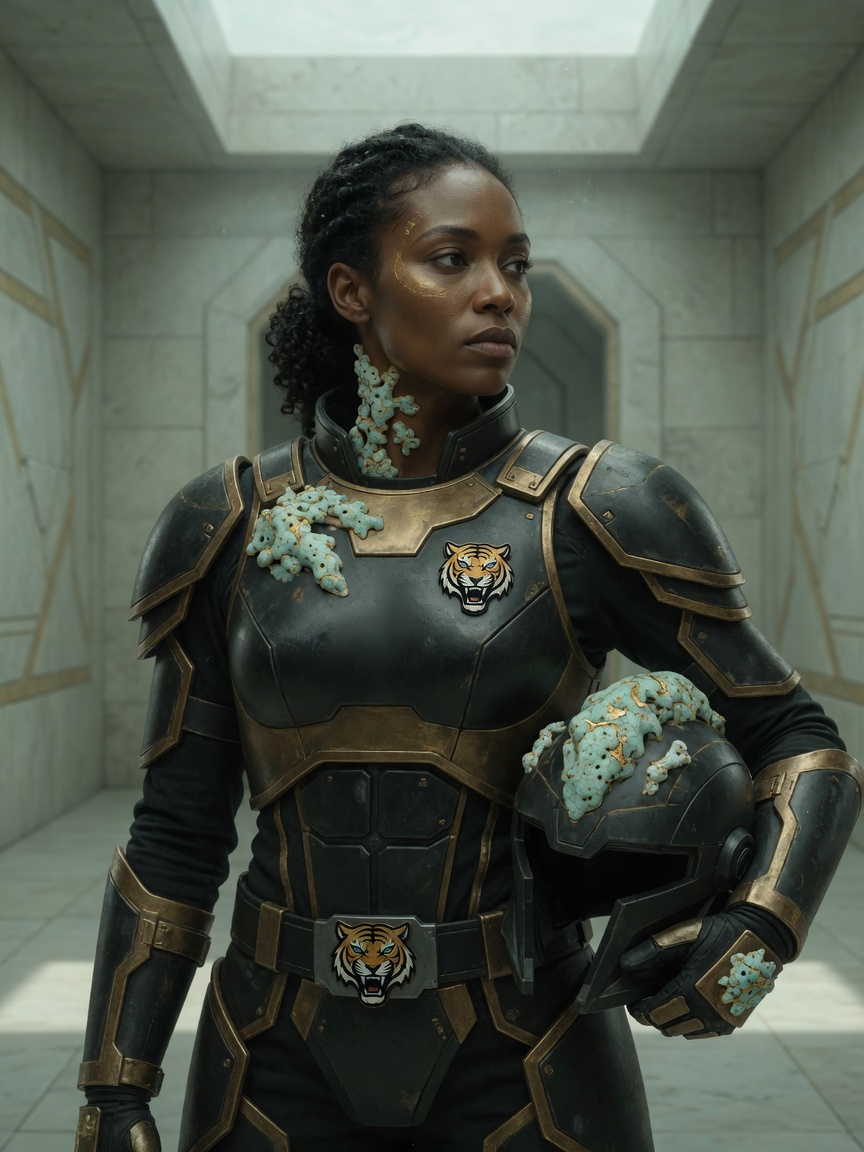
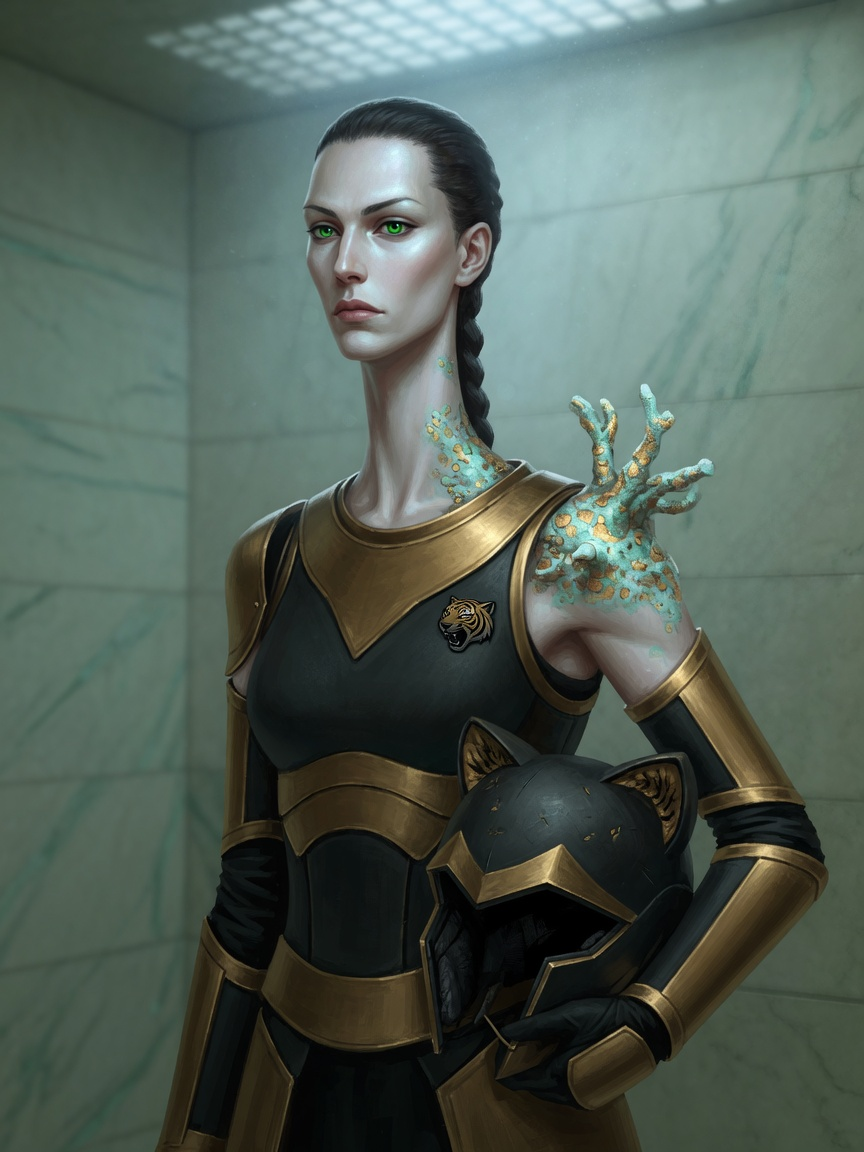
Twelfth pass: judge Helena-Chione's line as a family.
Asked whether Siskala should match her mother. She should, and she did
not -- nor did two of her sisters. The novel gives Helena's daughters
exactly one inherited feature and nobody had checked it: "Other than
sharing the same intense green eyes".

  siskala   brown eyes, soldier's build -> green eyes, elongated frame,
                                           long neck, her mother's poise
  clavissa  grey-blue eyes, gold-set     -> green eyes, elongated, porous
            brooch and earrings             growth collar, glyphs gone
  thyra     turquoise plates in gold     -> porous collar-crown growing
                                           from the body, nape pad shown

The clade rule I had been applying was too strong. The README said hair
and skin "vary freely within a line -- daughters share only her eye
colour", read off that sentence. But "other than sharing the same green
eyes" is licence for relatives to differ, not an instruction that they
must. Owner's rule replaces it: if the book does not explicitly say
otherwise, relatives match. Now in the clade table and art direction.

Siskala also exposed an oversight. The sixth pass flagged clade drift on
avone-valerio, radwarno and siskala together; I front-loaded "IMPERIAL
CELESTIAL, NOT A HUMAN SOLDIER" onto the first two and never applied it
to her. That is why she alone kept a soldier's build and no long neck --
and fixing it made her resemble her mother, because the elongated frame
is the family look.
[…]

diff --git a/exodus-the-archimedes-engine/docs/visual-briefs/README.md b/exodus-the-archimedes-engine/docs/visual-briefs/README.md
@@ -9,6 +9,11 @@ Maintainer-only notes for original encyclopedia illustrations. **Not** reader-fa
 - **Ships:** Exterior hull plate, three-quarter view, readable silhouette, space or drydock lighting; 16:9 feel.
 - **Unity:** Cool-neutral palette with warm skin/hull accents; encyclopedia seriousness (no comic speech, no UI chrome, no watermark text).
 - **Originality:** Guided by novel + wiki research only. Do not reproduce official EXODUS marketing art.
+- **Family resemblance (owner rule, 26 July 2026): if the book does not explicitly say otherwise,
+  relatives should match.** Blood relations share bearing, proportions and colouring unless the
+  novel describes one of them differently — and any feature the novel *does* fix for a line is
+  mandatory for every member of it. Judge a family side by side, never image by image; this has
+  now failed twice, on the Jalgori-Tobu siblings and on Helena-Chione's daughters.
 - **Period fit — the costume must belong to the era.** The novel is set around 42,000 AD, tens of
   thousands of years after the Sol exodus, so nothing may borrow a garment from Earth's recent past:
   no lounge suit, necktie or cravat, no twentieth-century dress collar and cuffs, no trench coat or
@@ -31,7 +36,7 @@ Maintainer-only notes for original encyclopedia illustrations. **Not** reader-fa
 
 | Clade | Body plan / cues | Dress / tech |
 |---|---|---|
-| **Imperial Celestial** | Tall elegant humanoids (queens up to ~3 m; elongated proportions, long limbs); post-human beauty; athanasia culture. **Both sexes carry a marsupial womb**; a child is near full height by seven (over 2 m) and only broadens after ten, when puberty triggers the womb's final growth phase. **Hair and skin colour vary freely within a line** — a queen's daughters share only her eye colour | Court robes and togas, bloodstone jewellery/growths that eventually entomb a host; neural induction pad in the **palm**, connection patch at the **top of the spine**; livestone architecture hints |
+| **Imperial Celestial** | Tall elegant humanoids (queens up to ~3 m; elongated proportions, long limbs); post-human beauty; athanasia culture. **Both sexes carry a marsupial womb**; a child is near full height by seven (over 2 m) and only broadens after ten, when puberty triggers the womb's final growth phase. **Family resemblance is the default.** The novel guarantees one inherited feature — Helena's daughters all share her **intense green eyes** — and says hair and skin colour are not fixed by the line. That is licence to vary, not an instruction to: unless the book explicitly describes a relative differently, draw them as family in bearing, proportions and colouring | Court robes and togas, bloodstone jewellery/growths that eventually entomb a host; neural induction pad in the **palm**, connection patch at the **top of the spine**; livestone architecture hints |
 | **Heresy Celestial** | ~3 m spindly **hexapods** — two legs, four arms, **four eyes that blink in unison**. Skull **extended into cones on both sides, level with the shoulders**, housing an inflated brain; the low body temperature exists to keep it from overheating. Skin **almost reptilian**, wrapped tight enough to read as an **exoskeleton, in blues and greens**. **The arm pairs differ**: the upper ends in four elongated three-jointed fingers and a thumb, the lower dangles like stiff rope with bulbous elbows and a simple **triple claw** | Multilayered robes cut for multi-limb anatomy, lower arms left hanging free; research/archon severity |
 | **Talloch-Te archon** | Multi-body Celestials (primary + secondary bodies; mind partition); **five eyes** on Sahdiah’s primary body; bodymorph / gravity form; not Crown two-eyed humanoid, not Heresy hexapod | Merchant-archon finery; nurture-chamber / ship-linked presence; deniable-ops cool |
 | **Uranic** | Fully human appearance; intermediate status; neural interface ports subtle at temples/neck | Client aristocracy — Gondiar estate / ministerial dress, elegant but subordinate to Celestial scale |

diff --git a/exodus-the-archimedes-engine/docs/visual-briefs/siskala.md b/exodus-the-archimedes-engine/docs/visual-briefs/siskala.md
@@ -29,7 +29,7 @@ Palace guard corridor
 ## Generation prompt
 
 ```
-Highly detailed cinematic sci-fi encyclopedia illustration, rich textures, sharp focus, painterly digital art with photographic detail, soft volumetric lighting, no text, no watermark, no UI chrome. Portrait of Major Siskala of the Wynid Royal Tiger Guard: tall athletic Imperial Celestial woman warrior, sharp professional expression, dark gold and black guard armour carrying one small tiger-head unit badge and no other repeated emblem, helmet under arm. any bloodstone visible is in faint turquoise and gold — pale blue-green and gold only, a bone-like matte porous growth of the body, never a cut, faceted or polished gemstone, never set in metal like jewellery, and never red, rust, ruby, scarlet or crimson. Court military, not queen, cool corridor light. Plain even light and an uncluttered background. NO TEXT ANYWHERE IN THE FRAME, on the subject or behind them: no signs, no signage, no neon lettering, no shopfronts, no billboards, no screens, no display panels, no readouts, no holographic interfaces, no console text, no dog tags, no identity discs, no name tapes, no stencilled markings, no badges, insignia, emblems or crests other than the single small tiger-head badge of the Royal Tiger Guard described above, no repeated motifs, no banners, no murals, no floating symbols or runes, no captions, no labels, no numbers, no logos, no brand marks, no watermarks.
+Highly detailed cinematic sci-fi encyclopedia illustration, rich textures, sharp focus, painterly digital art with photographic detail, soft volumetric lighting, no text, no watermark, no UI chrome. Upper-body portrait of Major Siskala of the Wynid Royal Tiger Guard, a daughter of Queen Helena-Chione. SHE IS AN IMPERIAL CELESTIAL, NOT A HUMAN SOLDIER: unnaturally tall with elongated proportions, long limbs and a notably long neck, holding her mother’s upright regal poise even in armour — no ordinary human soldier build, no thick neck, no slouch. SHE HAS HER MOTHER’S INTENSE GREEN EYES: vivid green, the one feature every daughter of Helena inherits — not brown, not hazel, not blue. Luminous pale post-human skin of the Wynid royal line, so she reads unmistakably as Helena-Chione’s daughter. Athletic woman warrior, sharp professional expression, dark gold and black guard armour carrying one small tiger-head unit badge and no other repeated emblem, helmet under arm. any bloodstone visible is in faint turquoise and gold — pale blue-green and gold only, a bone-like matte porous growth of the body, never a cut, faceted or polished gemstone, never set in metal like jewellery, and never red, rust, ruby, scarlet or crimson. Court military, not queen, cool corridor light. Plain even light and an uncluttered background. NO TEXT ANYWHERE IN THE FRAME, on the subject or behind them: no signs, no signage, no neon lettering, no shopfronts, no billboards, no screens, no display panels, no readouts, no holographic interfaces, no console text, no dog tags, no identity discs, no name tapes, no stencilled markings, no badges, insignia, emblems or crests other than the single small tiger-head badge of the Royal Tiger Guard described above, no repeated motifs, no banners, no murals, no floating symbols or runes, no captions, no labels, no numbers, no logos, no brand marks, no watermarks.
 ```
 
 ## Sources

diff --git a/exodus-the-archimedes-engine/docs/visual-briefs/IMAGE-REVIEW.md b/exodus-the-archimedes-engine/docs/visual-briefs/IMAGE-REVIEW.md
@@ -147,6 +147,46 @@ The prohibition binds to the garment rather than to the bloodstone — "never a 
 Malquilvo's reads "never ruby or crimson**, tear-shaped jewellery**". Fixing this means putting the
 noun inside the constant or ending the clause with punctuation.
 
+## Twelfth pass — Helena-Chione's line, judged as a family
+
+**26 July 2026 · 3 subjects · 3 pass.** Prompted by another question the process should have asked
+itself: *should Siskala not match the look of her mother?*
+
+She should, and she did not — nor did two of her sisters. The novel gives Helena's daughters exactly
+one inherited feature, and it is the one nobody checked:
+
+> "Other than sharing the same **intense green eyes**…"
+
+| Subject | Was | Now |
+|---|---|---|
+| `siskala` | **Brown eyes**, human soldier's build, no long neck, dark skin | Green eyes, elongated Celestial frame, long neck, her mother's poise and pallor |
+| `clavissa` | **Grey-blue eyes**, bloodstone as gold-set floral brooch and earrings | Green eyes, elongated, porous growth collar, wall glyphs gone |
+| `thyra` | Green eyes already, but bloodstone as **turquoise plates in gold settings** | A porous coral-like collar-crown growing from the body; neural pad at the nape visible |
+
+**The clade rule I had been applying was too strong.** The README read "hair and skin colour vary
+freely within a line — a queen's daughters share only her eye colour", derived from that sentence.
+But "other than sharing the same green eyes" is licence for relatives to differ, not an instruction
+that they must. The owner's rule replaces it: **if the book does not explicitly say otherwise,
+relatives should match** — bearing, proportions, colouring. Recorded in the clade table and in the
+site-wide art direction.
+
+**Siskala also exposed an oversight of mine.** The sixth pass flagged clade drift on three military
+Celestials — `avone-valerio`, `radwarno` and `siskala` — all reading as ordinary human soldiers. I
+front-loaded "HE IS AN IMPERIAL CELESTIAL, NOT A HUMAN SOLDIER" onto the first two and never applied
+it to Siskala, which is why she alone kept a soldier's build and no long neck. Fixing it made her
+resemble her mother, because the elongated frame *is* the family look.
+
+The line now reads as one family — pale, dark-haired, green-eyed, elongated — across
+`helena-chione`, `thyra`, `clavissa` and `siskala`, and all four were opened side by side to confirm
+it rather than judged one at a time. That is the second time a family has failed this way; the
+Jalgori-Tobu siblings were the first, and the doc has carried a "judge families together" callout
+since. It was never applied to Helena's line.
+
+**Outstanding under this rule:** `josias-aponi` is the **grandfather** of `eleanor-aponi`, and the
+pair has never been opened side by side. Both have book-fixed features that do not conflict — his
+thick beard and gray-blue eyes, her dark hair — so nothing is contradicted, but the resemblance has
+not been checked.
+
 ## Eleventh pass — period fit, a criterion the first ten never applied
 
 **26 July 2026 · 3 subjects · 3 pass.** Prompted by a question the review process should have asked

diff --git a/exodus-the-archimedes-engine/docs/visual-briefs/clavissa.md b/exodus-the-archimedes-engine/docs/visual-briefs/clavissa.md
@@ -29,7 +29,7 @@ Quieter court gallery light
 ## Generation prompt
 
 ```
-Highly detailed cinematic sci-fi encyclopedia illustration, rich textures, sharp focus, painterly digital art with photographic detail, soft volumetric lighting, no text, no watermark, no UI chrome. Portrait of Clavissa, Imperial Celestial congregant daughter of a queen: tall elegant post-human young woman with careful wary expression, silver-blue court robes, a modest collar ornament of calcium-growth bloodstone in faint turquoise and gold — a bone-like matte porous growth of the body, never a cut, faceted or polished gemstone, never set in metal like jewellery, and never red, rust, ruby, scarlet or crimson, elongated proportions. Survivor of succession culture, not the usurper. Upper-body portrait, soft gallery light.
+Highly detailed cinematic sci-fi encyclopedia illustration, rich textures, sharp focus, painterly digital art with photographic detail, soft volumetric lighting, no text, no watermark, no UI chrome. Upper-body portrait of Clavissa, Imperial Celestial congregant daughter of Queen Helena-Chione. SHE HAS HER MOTHER’S INTENSE GREEN EYES: vivid green, the one feature every daughter of Helena inherits — not grey, not blue. Tall elegant post-human young woman with elongated proportions and a long neck, luminous pale skin of the Wynid royal line, careful wary expression, silver-blue court robes, a modest collar ornament of calcium-growth bloodstone in faint turquoise and gold — a bone-like matte porous growth of the body, never a cut, faceted or polished gemstone, never set in metal like jewellery, and never red, rust, ruby, scarlet or crimson, elongated proportions. Survivor of succession culture, not the usurper, soft gallery light. Plain even light and an uncluttered background. NO TEXT ANYWHERE IN THE FRAME, on the subject or behind them: no signs, no signage, no neon lettering, no shopfronts, no billboards, no screens, no display panels, no readouts, no holographic interfaces, no console text, no dog tags, no identity discs, no name tapes, no stencilled markings, no unit badges, no insignia, no heraldic emblems, no crests, no repeated motifs, no banners, no murals, no floating symbols or runes, no captions, no labels, no numbers, no logos, no brand marks, no watermarks.
 ```
 
 ## Sources

diff --git a/exodus-the-archimedes-engine/docs/visual-briefs/thyra.md b/exodus-the-archimedes-engine/docs/visual-briefs/thyra.md
@@ -33,7 +33,7 @@ Throne-side shadow with fleet viewport
 ## Generation prompt
 
 ```
-Highly detailed cinematic sci-fi encyclopedia illustration, rich textures, sharp focus, painterly digital art with photographic detail, soft volumetric lighting, no text, no watermark, no UI chrome. Portrait of Thyra as Helena-Thyra, Imperial Celestial usurper queen: tall post-human young woman with elongated elegant features and cold ruthless intense green eyes, her long hair dressed in artful braids bound around the bloodstone spurs at her head and drawn up to leave the neural pad at the nape of her neck exposed, wearing sharp black and crimson armour-robes with a collar-crown of calcium-growth bloodstone in faint turquoise and gold — a bone-like matte porous growth of the body, never a cut, faceted or polished gemstone, never set in metal like jewellery, and never red, rust, ruby, scarlet or crimson. Hardline power. Upper-body portrait, dramatic side lighting and fleet viewport glow.
+Highly detailed cinematic sci-fi encyclopedia illustration, rich textures, sharp focus, painterly digital art with photographic detail, soft volumetric lighting, no text, no watermark, no UI chrome. Portrait of Thyra as Helena-Thyra, Imperial Celestial usurper queen and daughter of Helena-Chione: tall post-human young woman with elongated elegant features, a long neck, luminous pale skin of the Wynid royal line and cold ruthless intense green eyes, her long dark hair dressed in artful braids bound around the bloodstone spurs at her head and drawn up to leave the neural pad at the nape of her neck exposed, wearing sharp black and crimson armour-robes with a collar-crown of calcium-growth bloodstone in faint turquoise and gold — a bone-like matte porous growth of the body, never a cut, faceted or polished gemstone, never set in metal like jewellery, and never red, rust, ruby, scarlet or crimson. Hardline power. Upper-body portrait, dramatic side lighting and fleet viewport glow.
 ```
 
 ## Sources

diff --git a/CLAUDE.md b/CLAUDE.md
@@ -442,6 +442,10 @@ Three lessons from those passes are worth carrying into any new art:
 - **Count what the text counts, and check the material as well as the colour.** Olomo shipped with
   the wrong eye count for three passes because the brief never mentioned eyes; bloodstone was fixed
   from red to turquoise while staying a faceted gem, which the novel rules out just as firmly.
+- **Judge families side by side, and default to resemblance.** Any feature the novel fixes for a
+  line is mandatory for every member; where the book is silent, relatives should still match.
+  This has failed twice — the Jalgori-Tobu siblings shipped as three ancestries, and three of
+  Helena-Chione's daughters shipped without the green eyes the novel gives all of them.
 - **Check period fit.** The novel is set around 42,000 AD, so no costume may borrow from
   Earth's recent past — no suit and tie, no trench coat, no dog tags, no dado rails. Ten review
   passes missed a man in a lounge suit and necktie because they only ever asked about text,
